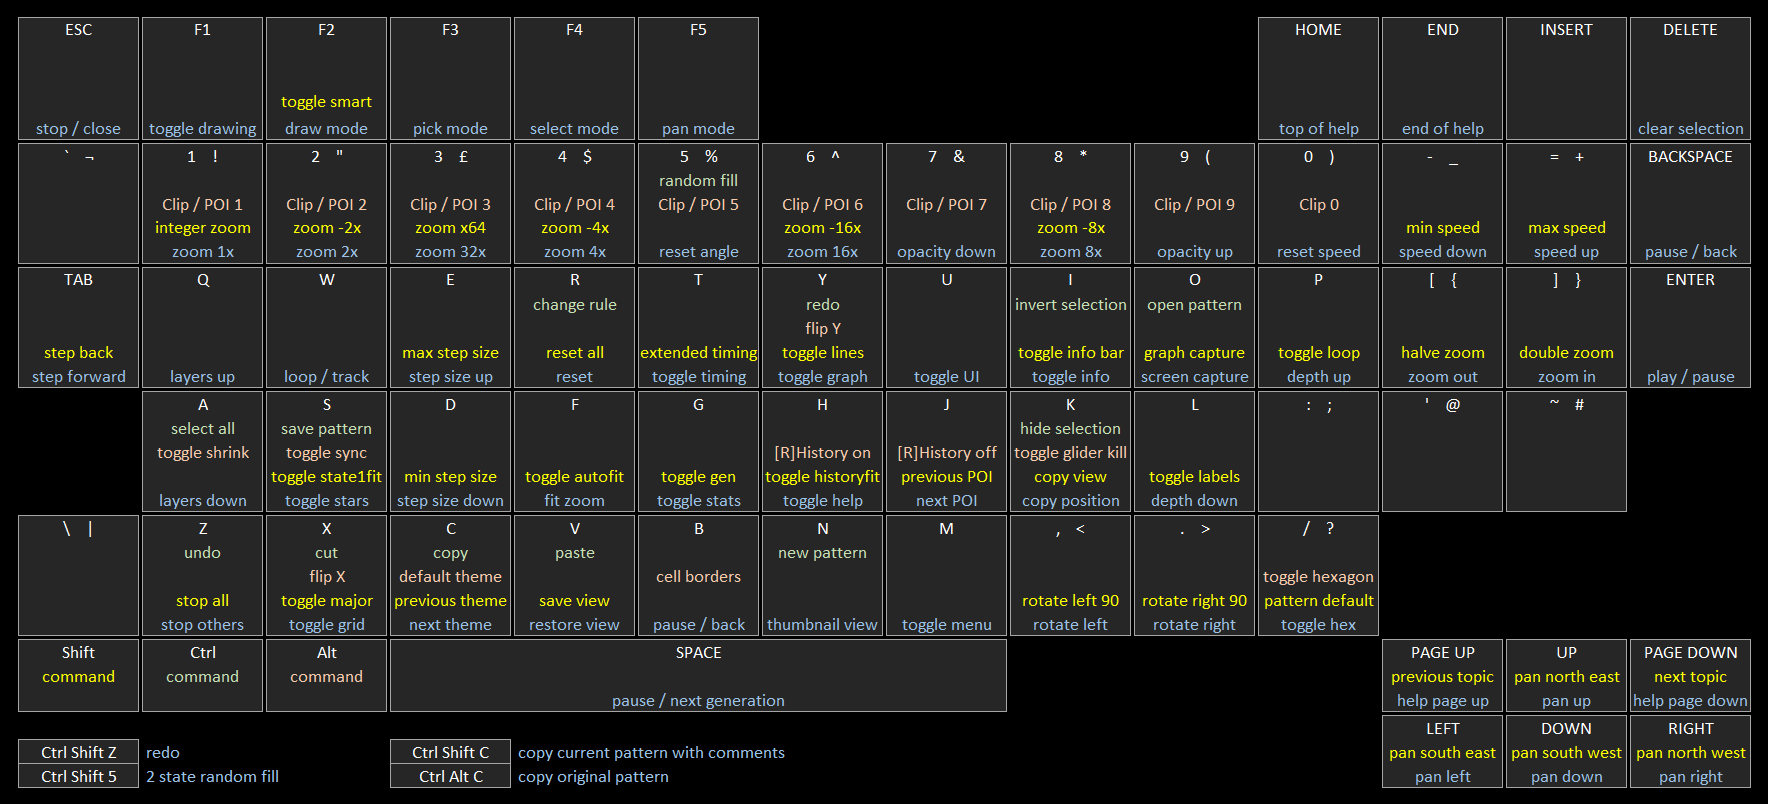
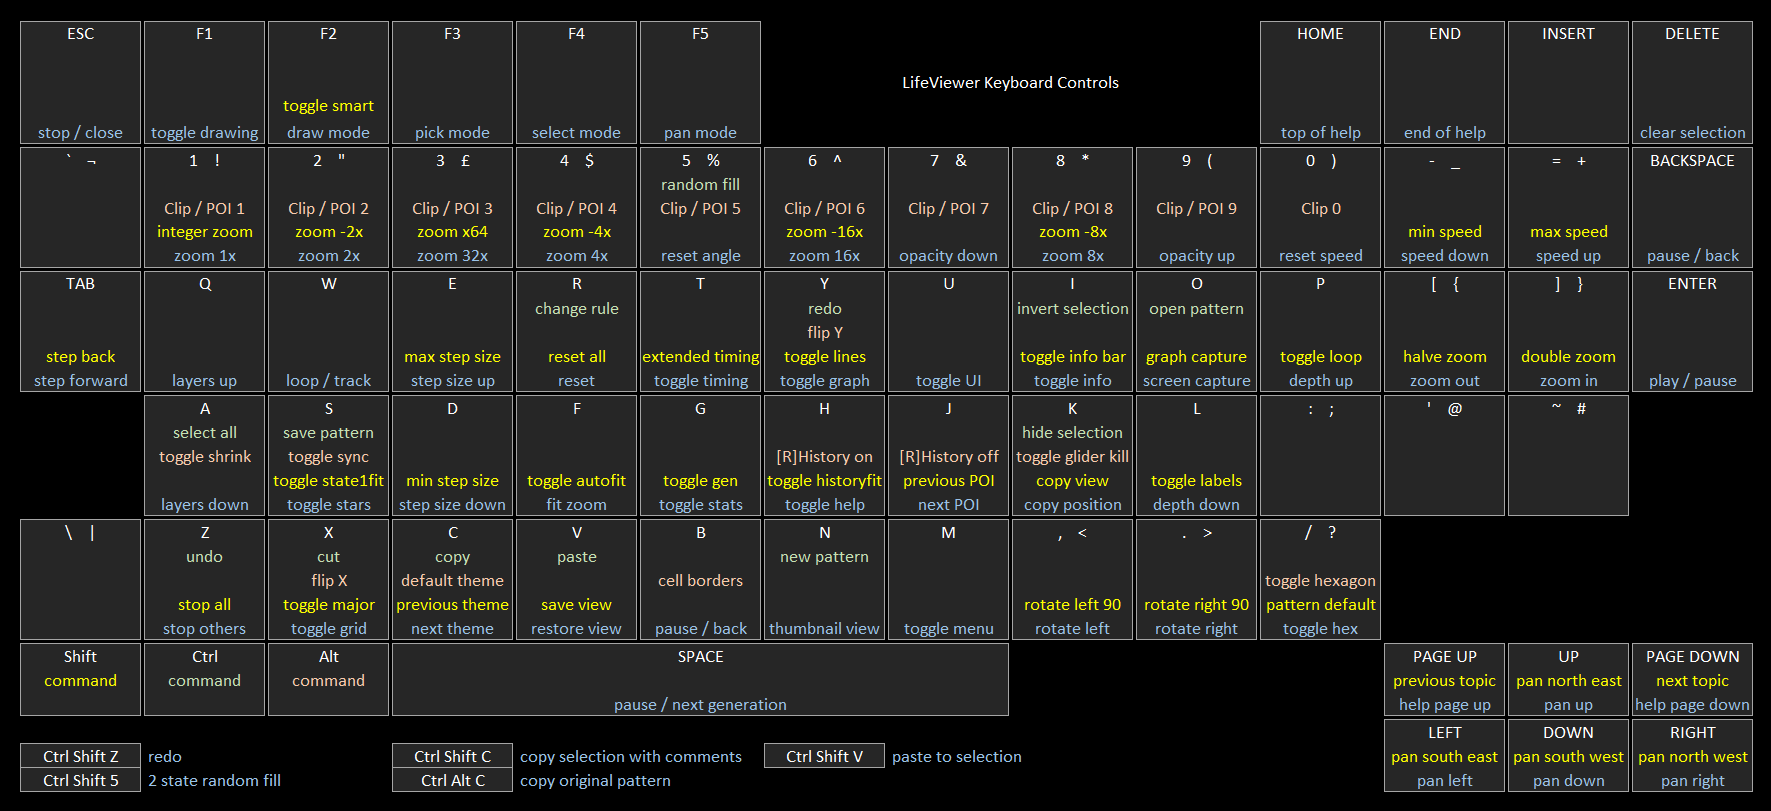
copy to selection and fixed drawing during playback undo bug

diff --git a/js/lifeview.js b/js/lifeview.js
@@ -5691,6 +5691,9 @@
 	View.prototype.viewAutoShrinkList = function(newValue, change, me) {
 		if (change) {
 			me.autoShrink = newValue[0];
+			if (me.autoShrink) {
+				me.autoShrinkSelection(me);
+			}
 		}
 
 		return [me.autoShrink];
@@ -6282,13 +6285,27 @@
 
 	// drag draw
 	View.prototype.dragDraw = function(me, x, y) {
+		var wasPlaying = me.generationOn,
+			savedIndex = me.currentEditIndex;
+
 		if (!me.pickMode) {
-			// draw cells
-			me.drawCells(x, y, me.lastDragX, me.lastDragY);
 			// suspend playback
 			if (me.generationOn && me.pauseWhileDrawing) {
 				me.generationOn = false;
 				me.playbackDrawPause = true;
+			}
+			// if playback was on then save undo record
+			if (wasPlaying) {
+				// just save generation
+				me.currentEditIndex = 0;
+				me.afterEdit("");
+				me.currentEditIndex = savedIndex;
+			}
+			// draw cells
+			me.drawCells(x, y, me.lastDragX, me.lastDragY);
+			// if playback was on then save undo record
+			if (wasPlaying) {
+				me.afterEdit("");
 			}
 		}
 	};
@@ -6418,8 +6435,8 @@
 	// drag ended for select
 	View.prototype.dragEndSelect = function(me) {
 		if (me.isPasting) {
-			// perform paste
-			me.performPaste(me);
+			// perform paste at the mouse position
+			me.performPaste(me, me.cellX, me.cellY);
 		} else {
 			me.doDragEndSelect(me);
 		}
@@ -7308,8 +7325,8 @@
 		}
 	};
 
-	// cut pressed
-	View.prototype.cutPressed = function(me, shift, alt) {
+	// process cut
+	View.prototype.processCut = function(me, shift, alt) {
 		// check for sync
 		if (!me.noCopy && me.copySyncExternal) {
 			if (shift) {
@@ -7336,6 +7353,11 @@
 		// cut to the standard clipboard
 		me.cutSelection(me, me.currentPasteBuffer);
 	}
+
+	// cut pressed
+	View.prototype.cutPressed = function(me) {
+		me.processCut(me, false, false);
+	};
 
 	// cut selection
 	View.prototype.cutSelection = function(me, number) {
@@ -7413,8 +7435,8 @@
 		}
 	};
 
-	// copy pressed
-	View.prototype.copyPressed = function(me, shift, alt) {
+	// process copy
+	View.prototype.processCopy = function(me, shift, alt) {
 		// check for sync
 		if (!me.noCopy && me.copySyncExternal) {
 			if (shift) {
@@ -7440,6 +7462,11 @@
 
 		// copy to the standard clipboard
 		me.copySelection(me, me.currentPasteBuffer);
+	};
+
+	// copy pressed
+	View.prototype.copyPressed = function(me) {
+		me.processCopy(me, false, false);
 	};
 
 	// copy selection
@@ -7514,7 +7541,7 @@
 	};
 
 	// perform paste
-	View.prototype.performPaste = function(me) {
+	View.prototype.performPaste = function(me, cellX, cellY) {
 		var i = 0,
 			x = 0,
 			y = 0,
@@ -7525,10 +7552,7 @@
 			buffer = me.pasteBuffer,
 			sizeHint = width * height,
 			midBox = me.middleBox,
-			origWidth = me.engine.width,
-			// get the paste position
-			cellX = me.cellX,
-			cellY = me.cellY;
+			origWidth = me.engine.width;
 
 		// adjust paste position based on position mode
 		switch ((me.pastePosition + 0.5) | 0) {
@@ -7623,12 +7647,59 @@
 		me.afterEdit("paste");
 	};
 
+	// process paste
+	View.prototype.processPaste = function(me, shift) {
+		var xOff = (me.engine.width >> 1) - (me.patternWidth >> 1),
+			yOff = (me.engine.height >> 1) - (me.patternHeight >> 1),
+			selBox = me.selectionBox,
+			save = 0,
+			leftX = selBox.leftX,
+			bottomY = selBox.bottomY,
+			rightX = selBox.rightX,
+			topY = selBox.topY,
+			width = 0,
+			height = 0;
+
+		// check for copy buffer
+		if (me.pasteBuffers[me.currentPasteBuffer] !== null) {
+			// check for paste to selection
+			if (shift) {
+				// check for a selection
+				if (me.isSelection) {
+					// order selection
+					if (leftX > rightX) {
+						save = leftX;
+						leftX = rightX;
+						rightX = save;
+					}
+					if (bottomY > topY) {
+						save = bottomY;
+						bottomY = topY;
+						topY = save;
+					}
+					width = rightX - leftX + 1;
+					height = topY - bottomY + 1;
+
+					// check the paste fits in the selection box
+					if (me.pasteWidth > width || me.pasteHeight > height) {
+						me.menuManager.notification.notify("Paste does not fit in selection", 15, 180, 15, true);
+					} else {
+						me.performPaste(me, leftX + xOff, bottomY + yOff);
+					}
+				} else {
+					me.menuManager.notification.notify("Paste to Selection needs a selection", 15, 180, 15, true);
+				}
+
+			} else {
+				me.pasteSelection(me, me.currentPasteBuffer);
+				me.menuManager.notification.notify("Now click to paste", 15, 180, 15, true);
+			}
+		}
+	};
+
 	// paste pressed
 	View.prototype.pastePressed = function(me) {
-		if (me.pasteBuffers[me.currentPasteBuffer] !== null) {
-			me.pasteSelection(me, me.currentPasteBuffer);
-			me.menuManager.notification.notify("Now click to paste", 15, 180, 15, true);
-		}
+		me.processPaste(me, false);
 	};
 
 	// paste selection

diff --git a/js/help.js b/js/help.js
@@ -739,13 +739,16 @@
 		// clipboard controls
 		view.helpSections[sectionNum] = [view.lineNo, "Clipboard"];
 		sectionNum += 1;
-		y = this.renderHelpLine(view, "", "Clipboard controls:", ctx, x, y, height, helpLine);
+		y = this.renderHelpLine(view, "", "External clipboard controls:", ctx, x, y, height, helpLine);
+		y = this.renderHelpLine(view, "Alt S", "toggle sync cut and copy with external clipboard", ctx, x, y, height, helpLine);
 		y = this.renderHelpLine(view, "Ctrl+Shift C", "copy original pattern", ctx, x, y, height, helpLine);
-		y = this.renderHelpLine(view, "Ctrl C", "copy current pattern", ctx, x, y, height, helpLine);
-		y = this.renderHelpLine(view, "Ctrl+Alt C", "copy current pattern with comments", ctx, x, y, height, helpLine);
+		y = this.renderHelpLine(view, "Ctrl C", "copy current selection", ctx, x, y, height, helpLine);
+		y = this.renderHelpLine(view, "Ctrl+Alt C", "copy current selection with comments", ctx, x, y, height, helpLine);
+		y = this.renderHelpLine(view, "Ctrl+Shift X", "copy original pattern", ctx, x, y, height, helpLine);
+		y = this.renderHelpLine(view, "Ctrl X", "copy current selection", ctx, x, y, height, helpLine);
+		y = this.renderHelpLine(view, "Ctrl+Alt X", "copy current selection with comments", ctx, x, y, height, helpLine);
 		y = this.renderHelpLine(view, "K", "copy camera position", ctx, x, y, height, helpLine);
 		y = this.renderHelpLine(view, "Shift K", "copy camera position and view", ctx, x, y, height, helpLine);
-		y = this.renderHelpLine(view, "Alt S", "toggle sync cut and copy with external clipboard", ctx, x, y, height, helpLine);
 		y = this.renderHelpLine(view, "", "", ctx, x, y, height, helpLine);
 
 		// edit controls
@@ -760,9 +763,11 @@
 		y = this.renderHelpLine(view, "F5", "pan mode", ctx, x, y, height, helpLine);
 		y = this.renderHelpLine(view, "Ctrl A", "select all", ctx, x, y, height, helpLine);
 		y = this.renderHelpLine(view, "Alt A", "toggle auto-shrink selection", ctx, x, y, height, helpLine);
+		y = this.renderHelpLine(view, "Ctrl C", "copy", ctx, x, y, height, helpLine);
 		y = this.renderHelpLine(view, "Ctrl I", "invert selection", ctx, x, y, height, helpLine);
 		y = this.renderHelpLine(view, "Ctrl K", "remove selection", ctx, x, y, height, helpLine);
 		y = this.renderHelpLine(view, "Ctrl V", "paste", ctx, x, y, height, helpLine);
+		y = this.renderHelpLine(view, "Ctrl+Shift V", "paste to selection", ctx, x, y, height, helpLine);
 		y = this.renderHelpLine(view, "Ctrl X", "cut", ctx, x, y, height, helpLine);
 		y = this.renderHelpLine(view, "Ctrl Y", "redo edit", ctx, x, y, height, helpLine);
 		y = this.renderHelpLine(view, "Ctrl Z", "undo edit", ctx, x, y, height, helpLine);

diff --git a/js/keys.js b/js/keys.js
@@ -510,7 +510,7 @@
 			// x for toggle grid lines
 			case 88:
 				if (event.ctrlKey) {
-					me.cutPressed(me, event.shiftKey, event.altKey);
+					me.processCut(me, event.shiftKey, event.altKey);
 				} else {
 					// check for shift
 					if (event.shiftKey) {
@@ -707,7 +707,7 @@
 			// v for reset view
 			case 86:
 				if (event.ctrlKey) {
-					me.pastePressed(me);
+					me.processPaste(me, event.shiftKey);
 				} else {
 					// check for shift key
 					if (event.shiftKey) {
@@ -1222,7 +1222,7 @@
 			case 67:
 				// check for control-C
 				if (event.ctrlKey) {
-					me.copyPressed(me, event.shiftKey, event.altKey);
+					me.processCopy(me, event.shiftKey, event.altKey);
 				} else {
 					// disable colour themes in multi-state mode
 					if (!me.multiStateView) {
